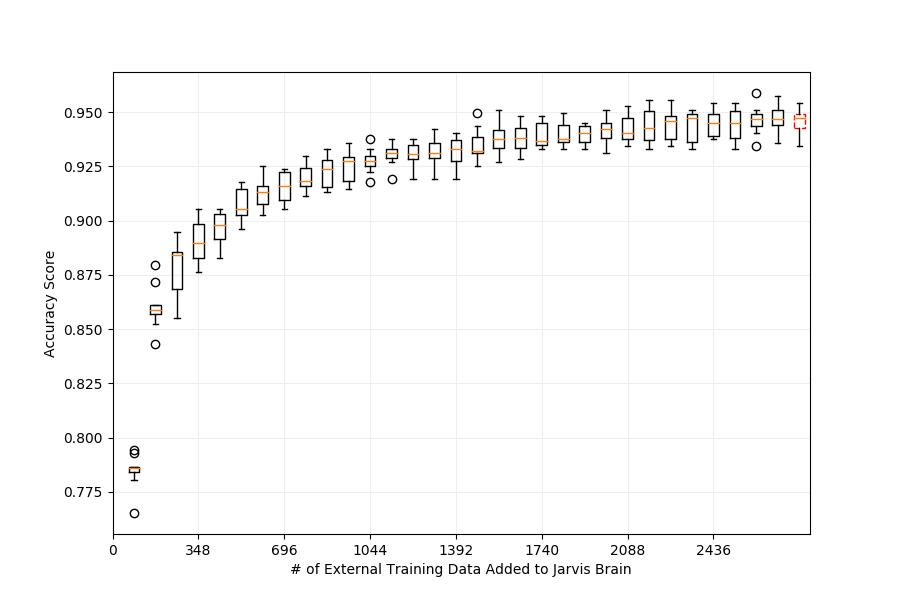
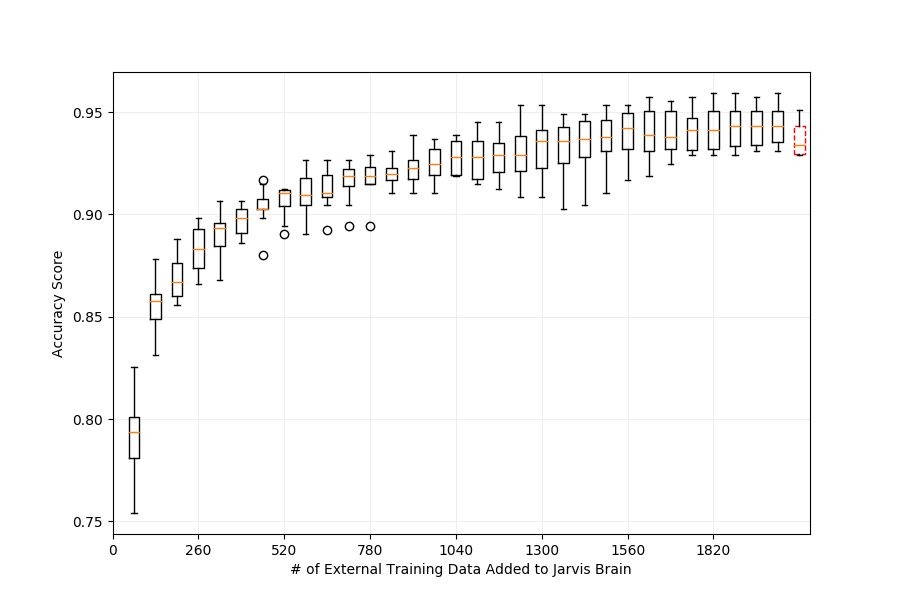
hold off test data before doing step2

diff --git a/Proj02/report_2.py b/Proj02/report_2.py
@@ -64,7 +64,8 @@ def step2():
     # get externel-data from cleaned folder
     proj1_data_x, proj1_data_y = utils.project1_data()
     data_x, data_y = utils.preprocess_data(cleaned_version=True, with_filename=False)
-    total_data = len(data_x)
+    ok_data_x, hold_off_data_x, ok_data_y, hold_off_data_y = train_test_split(data_x, data_y, random_state=10)
+    total_data = len(ok_data_x)
     num_train = int(total_data * 0.8)
     num_test = total_data - num_train
     step_size = int(num_train/30)
@@ -74,7 +75,7 @@ def step2():
     for total_train in range(0,num_train,step_size):
         scores = []
         for iteration_count in range(10):
-            train_x, test_x, train_y, test_y = train_test_split(data_x, data_y, random_state=iteration_count, train_size=num_train, test_size=num_test)
+            train_x, test_x, train_y, test_y = train_test_split(ok_data_x, ok_data_y, random_state=iteration_count, train_size=num_train, test_size=num_test)
 
             x = proj1_data_x + train_x[:total_train]
             y = proj1_data_y + train_y[:total_train]
@@ -118,33 +119,33 @@ def step2():
     plt.savefig("adding_external_data.png")
     plt.show()
 
-# pour all data together and do cross-validation
-def step3():
-    print("Step 3 start. Pour all data together and do cross-validation.")
-    proj1_data_x, proj1_data_y = utils.project1_data()
-    data_x, data_y = utils.preprocess_data(cleaned_version=True, with_filename=False)
-    data_x = data_x + proj1_data_x
-    data_y = data_y + proj1_data_y
-    scores = []
-    for iteration_count in range(20):
-        train_x, test_x, train_y, test_y = train_test_split(data_x, data_y, random_state=iteration_count)
-        # get a brain
-        brain = utils.build_a_simple_brain()
-        # train
-        brain.fit(train_x, train_y)
-        # accuracy
-        score = brain.score(test_x, test_y)
-        scores.append(score)
+# # pour all data together and do cross-validation
+# def step3():
+#     print("Step 3 start. Pour all data together and do cross-validation.")
+#     proj1_data_x, proj1_data_y = utils.project1_data()
+#     data_x, data_y = utils.preprocess_data(cleaned_version=True, with_filename=False)
+#     data_x = data_x + proj1_data_x
+#     data_y = data_y + proj1_data_y
+#     scores = []
+#     for iteration_count in range(20):
+#         train_x, test_x, train_y, test_y = train_test_split(data_x, data_y, random_state=iteration_count)
+#         # get a brain
+#         brain = utils.build_a_simple_brain()
+#         # train
+#         brain.fit(train_x, train_y)
+#         # accuracy
+#         score = brain.score(test_x, test_y)
+#         scores.append(score)
 
-    plt.figure(figsize=(9,6))
-    bplot = plt.boxplot(scores)
-    plt.xlabel("")
-    plt.ylabel("Accuracy Score")
-    plt.grid(color='#EEEEEE')
-    plt.savefig("estimate_real_world_test_score.png")
-    plt.show()
+#     plt.figure(figsize=(9,6))
+#     bplot = plt.boxplot(scores)
+#     plt.xlabel("")
+#     plt.ylabel("Accuracy Score")
+#     plt.grid(color='#EEEEEE')
+#     plt.savefig("estimate_real_world_test_score.png")
+#     plt.show()
 
 if __name__ == "__main__":
     step1()
     step2()
-    step3()
+    # step3()

diff --git a/Proj02/utils.py b/Proj02/utils.py
@@ -138,7 +138,7 @@ def build_a_simple_brain():
     brain = Pipeline([
             ("vect", CountVectorizer()),
             ("tfidf", TfidfTransformer()),
-            ("clf", RidgeClassifier()),
+            ("clf", RidgeClassifier(alpha=0.5874)),
         ])
     return brain
 
